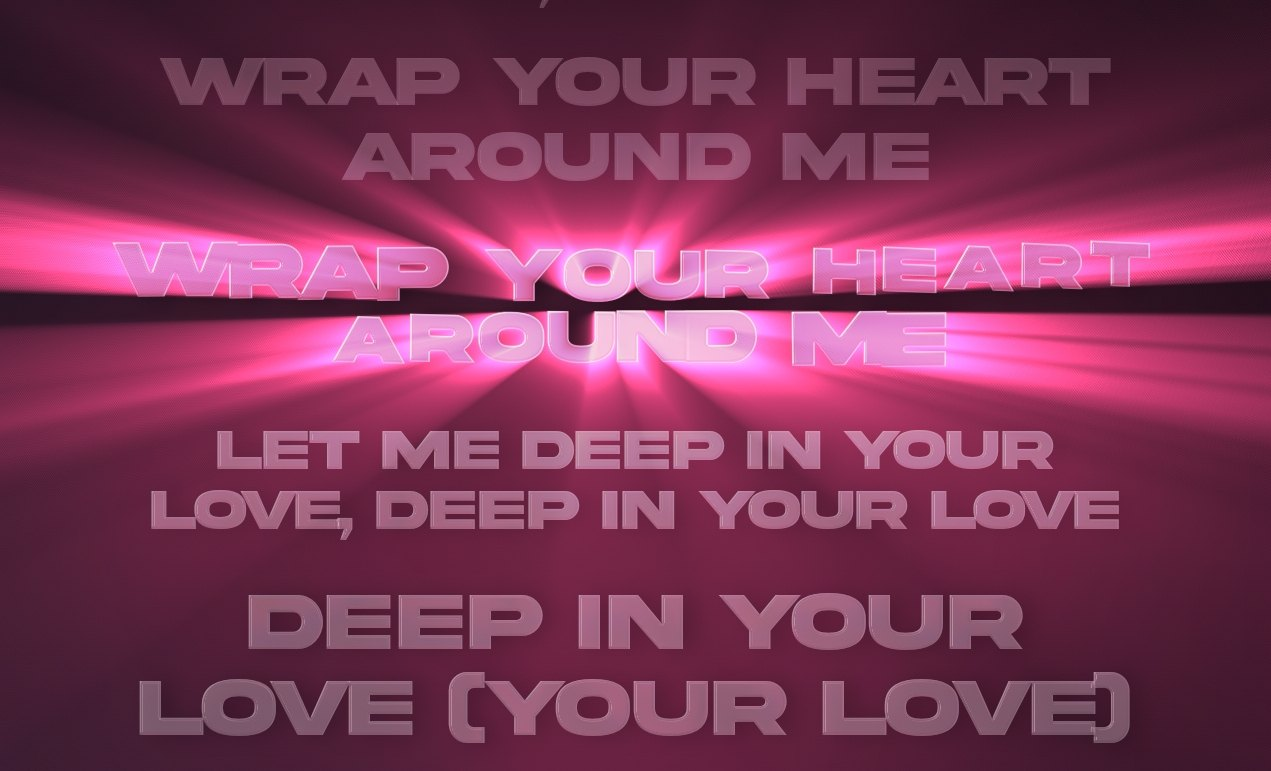
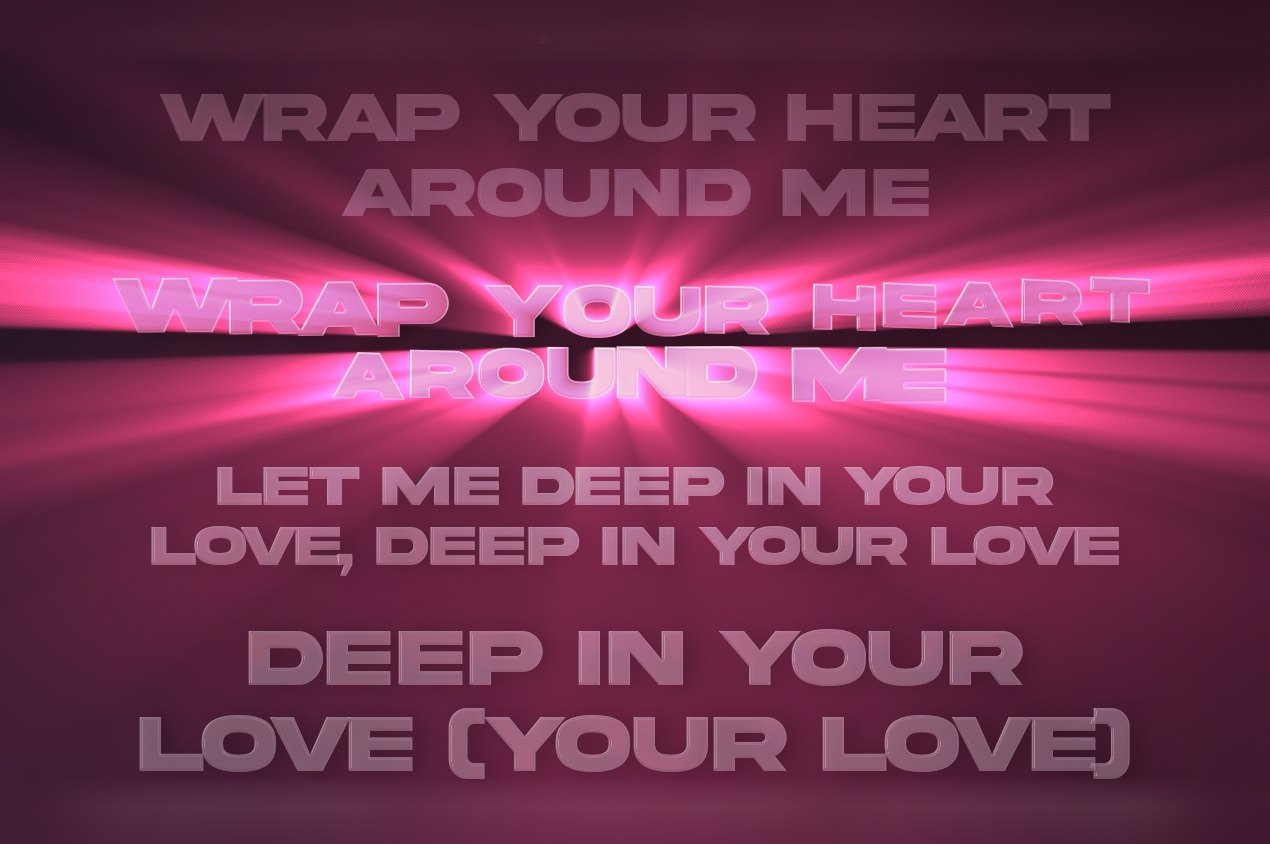
docs: 1.9.3 god rays shots share one canvas, in one row
All three are 1270x844 now, side by side in a single row like 1.9.2's.
The pink shot and the sung-word strip were extended from their own
edge colours, feathered into the original, so the frame continues the
scene rather than adding a border. The red shot sits in the middle,
between the violet and the pink.

Changed region(s): [[0.0, 0.0623, 1.0, 0.4981], [0.0921, 0.7471, 0.8906, 0.965], [0.1228, 0.5292, 0.8906, 0.716]]

diff --git a/docs/releases/1.9.3.md b/docs/releases/1.9.3.md
@@ -2,11 +2,9 @@
 
 Liquid glass across the app, god rays on the lyrics, and TIDAL working properly again. Downloads are filed by artist and album, Dolby Atmos mixes can be downloaded, USB DACs get a volume of their own, and your plays reach your account.
 
-| | |
-|:---:|:---:|
-| ![Violet god rays streaming from the sung line through glass lyric letters](1.9.3/god-rays-violet.jpg) | ![Pink god rays behind the sung line, the lines around it in frosted glass](1.9.3/god-rays-pink.jpg) |
-
-![The sung word lit red, with light raking across the rest of the line](1.9.3/god-rays-sung-word.jpg)
+| | | |
+|:---:|:---:|:---:|
+| ![Violet god rays streaming from the sung line through glass lyric letters](1.9.3/god-rays-violet.jpg) | ![The sung word lit red, with light raking across the rest of the line](1.9.3/god-rays-sung-word.jpg) | ![Pink god rays behind the sung line, the lines around it in frosted glass](1.9.3/god-rays-pink.jpg) |
 
 Each change is marked New, Changed or Fixed.
 
